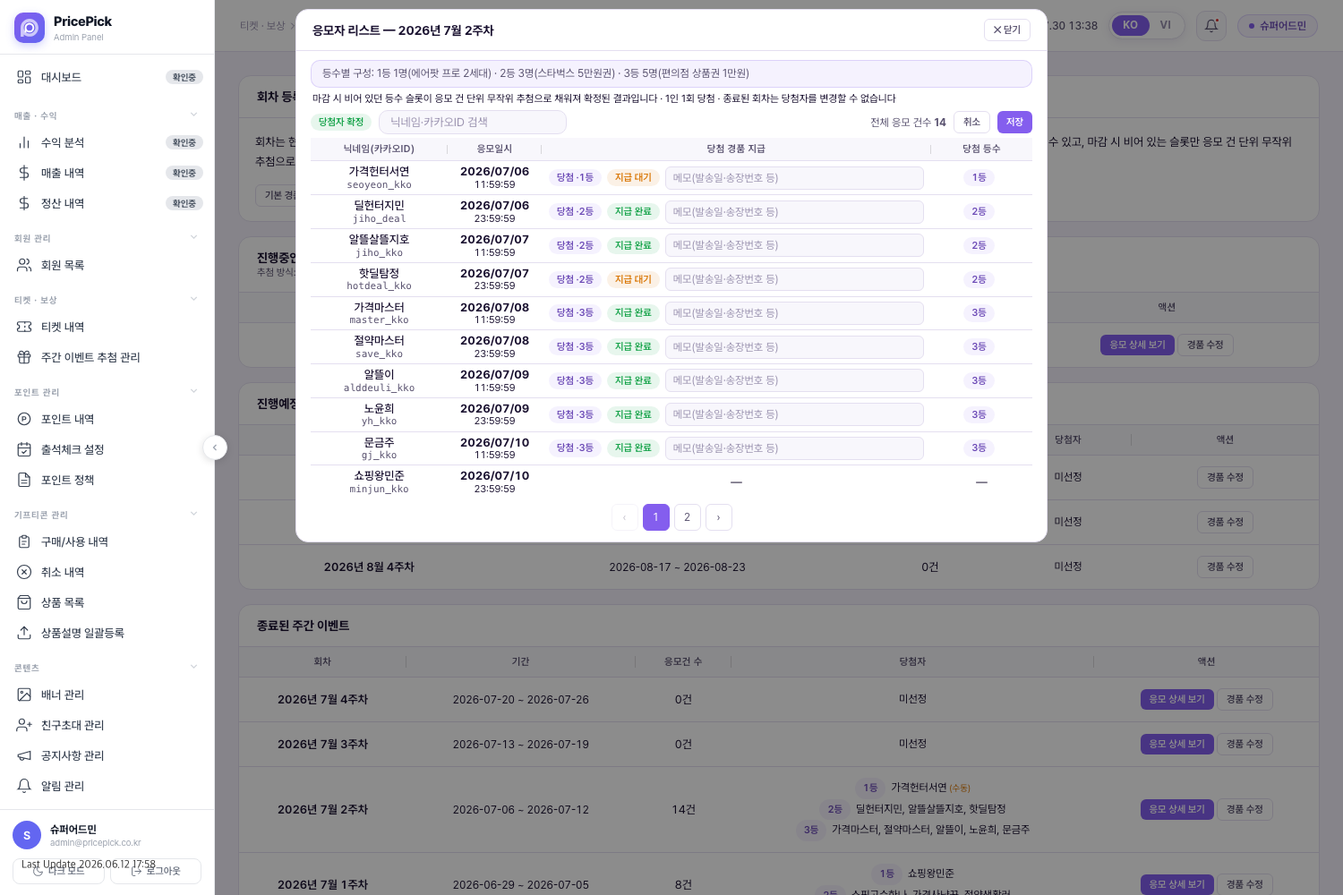
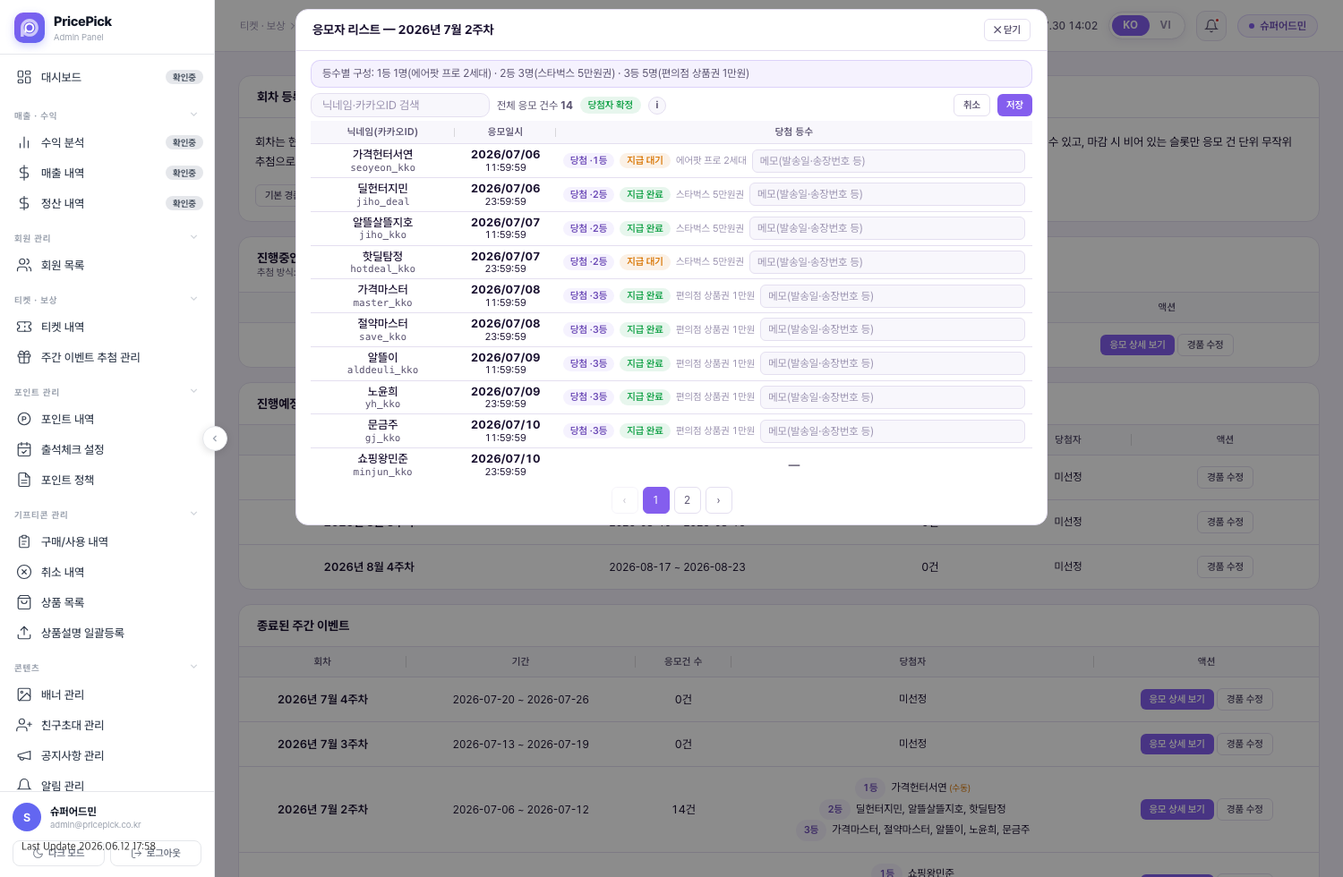
진행 중 회차 지급 표기 제거(비활성화 폐기): CMS 원본 + 설명서·정정 안내문 + 언어 훅 결함 수정
김반장 지시 변경 — 진행 중 회차의 지급 관련 표기를 비활성이 아니라 아예 없앤다.

- cms.html: 진행 중 회차의 "당첨 등수" 칸은 수동 지정 드롭다운 + 경품명만(지급 상태 뱃지·메모칸 제거).
  직전 커밋의 비활성 표시(.pd-payout-off, .pd-memo-input:disabled, 툴팁)는 죽은 코드라 전량 제거하고,
  pdPayoutLocked()는 pdTogglePaid·pdSaveMemo 우회 호출 방지 가드로만 남김. 안내 둘째 줄 문구 정정(KO/VI).
  최종 컬럼 구성 — 진행 중: 닉네임/응모일시/당첨 등수(드롭다운) · 종료: 닉네임/응모일시/당첨 등수(당첨
  뱃지·등수 + 경품명 + 지급 상태 + 메모).
- 설명서: 6절 문단·주의사항 콜아웃·운영 시나리오·캡처 캡션을 "비활성" → "표기 없음"으로 정정. 안내 위치도
  실제 UI대로(툴바 (i) 버튼 호버 툴팁 / 클릭 시 펼침) 서술. 캡처 2종 재촬영 — 진행 중은 안내를 펼친
  상태로 찍어 왜 지급 표기가 없는지 캡처만 봐도 알 수 있게 함.
- 정정 안내문 5절 전면 교체: "비활성 처리" 폐기 명시 + 회차 상태별 컬럼 구성 대조 + 구현 주의(렌더에서
  빼되 가드는 남길 것).

부수 결함 2건 수정(이번 변경으로 드러남):
- pdSyncEntNoteTitle이 2줄 안내를 textContent로 그대로 title에 넣어 문장이 붙어버렸다 → 줄 단위 결합.
- KO/VI 토글 훅이 설치되지 않고 있었다. 훅 IIFE가 파싱 시점에 window.ipSetLang을 감싸려 하는데 i18n
  엔진은 파일 뒤쪽에서 정의되므로 항상 undefined → early return. 언어를 바꿔도 회차명·(i) 툴팁이 이전
  언어로 남던 원인. 엔진 정의 후 설치되도록 지연 + 중복 설치 차단.

검증: 실브라우저 진행 중/종료 각각 확인(지급 표기 0건 vs 뱃지·메모 9건, 드롭다운 10 vs 0, 종료 회차
토글·메모·저장 정상), 언어 토글 시 (i) 툴팁 2줄 VI 전환·KO 복귀 및 회차명 VI 전환 확인.

diff --git a/cms-storyboard/weekly-draws.html b/cms-storyboard/weekly-draws.html
@@ -103,13 +103,13 @@ code{font-family:'SF Mono',Menlo,monospace;font-size:11.5px;background:var(--bg)
 <p><span class="i18n"><span class="ko">마감 시각이 되면 시스템이 <b>비어 있는 슬롯만</b> 채운다. 수동 지정된 사람을 뺀 나머지 응모 행을 전부 무작위로 섞은 뒤, 등수별로 남은 자리만큼 1등부터 순서대로 채우고, <b>같은 사람이 두 번 당첨되는 일은 막는다</b>(이미 당첨된 사람의 다른 응모 행은 건너뜀). 이렇게 확정된 뒤에는 <b>운영자가 당첨자를 바꿀 수 없다</b> — 종료된 회차의 "당첨 등수" 칸은 드롭다운이 아니라 결과 뱃지로만 보인다. 데모 환경에는 서버 크론이 없어서, 실제로는 CMS 화면을 여는 시점에 "마감은 지났는데 아직 추첨 안 된 회차"가 있는지 확인해 그 자리에서 대신 처리한다(운영자 눈에는 차이가 없다).</span><span class="vi">Khi đến giờ đóng đợt, hệ thống chỉ lấp <b>những suất còn trống</b>. Hệ thống xáo trộn ngẫu nhiên toàn bộ dòng dự thưởng còn lại sau khi trừ người đã được chỉ định thủ công, rồi lấp đúng số chỗ còn thiếu của từng hạng theo thứ tự từ hạng 1, đồng thời <b>chặn việc 1 người trúng hai lần</b> (bỏ qua các dòng dự thưởng khác của người đã trúng). Sau khi đã chốt như vậy thì <b>Vận hành viên không thể đổi người trúng</b> — cột "Hạng trúng thưởng" của đợt đã kết thúc chỉ hiện badge kết quả, không phải dropdown. Vì môi trường demo không có cron server, trên thực tế hệ thống kiểm tra vào lúc mở màn CMS xem có đợt nào "đã đóng nhưng chưa rút thăm" không rồi xử lý thay ngay lúc đó (Vận hành viên nhìn thấy không khác gì nhau).</span></span></p>
 <p><span class="i18n"><span class="ko">당첨으로 뽑힌 응모 행에는 <b>"당첨 · N등" 뱃지</b>가 붙고, 이런 행들은 등수 순서로 리스트 맨 위에 모인다. 회차 리스트의 "당첨자" 칸에서는 운영자가 직접 지정한 당첨자 뒤에 <b>"(수동)" 표시</b>가 붙어 자동 추첨분과 구분된다.</span><span class="vi">Dòng dự thưởng được chọn trúng sẽ có <b>badge "Trúng thưởng · Hạng N"</b>, và các dòng này được gom lên đầu danh sách theo thứ tự hạng. Ở cột "Người trúng" của danh sách đợt, người trúng do Vận hành viên trực tiếp chỉ định sẽ có thêm <b>ký hiệu "(thủ công)"</b> để phân biệt với phần rút thăm tự động.</span></span></p>
 <p><span class="i18n"><span class="ko">응모자가 많은 회차를 대비해 리스트 위에 <b>닉네임 검색창</b>이 있고, 리스트는 <b>10건씩 페이지로 나뉜다</b>. 검색은 닉네임과 카카오 아이디를 둘 다 부분 일치로 잡는다(대소문자 구분 없음) — "지민"만 쳐도 "딜헌터지민"이 걸린다. 검색창 오른쪽에는 <b>전체 응모 건수</b>가 항상 떠 있고, 검색 중에는 "검색 결과 N / 전체 응모 건수 M" 형태로 둘 다 보여준다(총계는 티켓 1장 = 1행 기준 그대로다). 정렬 규칙은 검색·페이지와 무관하게 그대로다 — <b>당첨자를 등수 순으로 먼저 세우고 그 뒤에 나머지</b>를 붙인 순서를 정해놓고 그 순서 그대로 10건씩 끊기 때문에, 1페이지 맨 위는 항상 1등이다. 당첨 뱃지·지급 상태 뱃지·메모칸도 검색 결과 안에서 똑같이 눌리고 입력된다. 검색어를 바꾸면 1페이지로 돌아가고, 모달을 닫았다 다시 열면 검색어·페이지가 초기화된다. 10건 이하면 페이지 버튼은 아예 안 나온다.</span><span class="vi">Để chuẩn bị cho các đợt có nhiều người dự thưởng, phía trên danh sách có <b>ô tìm kiếm biệt danh</b>, và danh sách được <b>chia trang 10 dòng mỗi trang</b>. Tìm kiếm khớp một phần cả biệt danh lẫn Kakao ID (không phân biệt hoa thường) — chỉ gõ "지민" cũng ra "딜헌터지민". Bên phải ô tìm kiếm luôn hiện <b>tổng số lượt dự thưởng</b>, khi đang tìm kiếm thì hiện cả hai theo dạng "Kết quả tìm kiếm N / Tổng số lượt dự thưởng M" (tổng số vẫn tính theo chuẩn 1 vé = 1 dòng như cũ). Quy tắc sắp xếp không đổi dù có tìm kiếm hay chia trang — <b>xếp người trúng lên trước theo thứ tự hạng rồi mới nối phần còn lại</b>, sau đó mới cắt 10 dòng mỗi trang theo đúng thứ tự đó, nên đầu trang 1 luôn là hạng 1. Badge trúng thưởng·badge trạng thái gửi quà·ô ghi chú trong kết quả tìm kiếm cũng bấm và nhập được y hệt. Đổi từ khóa thì quay về trang 1, đóng modal rồi mở lại thì từ khóa·trang được đặt lại. Nếu từ 10 dòng trở xuống thì nút chuyển trang không hiện.</span></span></p>
-<div class="shot"><img src="img/weekly-draws-02-entrants-modal.png" alt="응모자 리스트 — 미선정 상태, 다중 응모"><div class="cap"><span class="i18n"><span class="ko">실측 캡처 — <b>진행 중 회차</b>의 응모자 리스트. "당첨 등수"가 드롭다운이고, 1등·2등 슬롯이 수동 지정·저장된 상태(뱃지 "수동 지정 저장됨"). <b>지급 대기 뱃지와 메모칸은 회색 점선으로 비활성</b>이고, 그 이유가 상단 안내 두 번째 줄에 붙어 있다</span><span class="vi">Ảnh chụp thực tế — danh sách người dự thưởng của <b>đợt đang diễn ra</b>. Cột "Hạng trúng thưởng" là dropdown, và suất hạng 1·hạng 2 đang ở trạng thái đã chỉ định thủ công·đã lưu (badge "Đã lưu chỉ định thủ công"). <b>Badge chờ gửi quà và ô ghi chú bị vô hiệu với viền nét đứt màu xám</b>, lý do được ghi ở dòng thứ hai của phần hướng dẫn phía trên</span></span></div></div>
+<div class="shot"><img src="img/weekly-draws-02-entrants-modal.png" alt="응모자 리스트 — 미선정 상태, 다중 응모"><div class="cap"><span class="i18n"><span class="ko">실측 캡처 — <b>진행 중 회차</b>의 응모자 리스트. "당첨 등수"가 드롭다운이고, 1등·2등 슬롯이 수동 지정·저장된 상태(뱃지 "수동 지정 저장됨"). <b>지급 상태 뱃지·메모칸은 아예 없다</b>(지급은 마감 후) — 그 이유는 툴바 ⓘ 버튼을 누르면 펼쳐지는 안내 둘째 줄에 있다</span><span class="vi">Ảnh chụp thực tế — danh sách người dự thưởng của <b>đợt đang diễn ra</b>. Cột "Hạng trúng thưởng" là dropdown, và suất hạng 1·hạng 2 đang ở trạng thái đã chỉ định thủ công·đã lưu (badge "Đã lưu chỉ định thủ công"). <b>Không có badge trạng thái gửi quà·ô ghi chú</b> (gửi quà là sau khi đóng đợt) — lý do nằm ở dòng thứ hai của phần hướng dẫn mở ra khi bấm nút ⓘ trên thanh công cụ</span></span></div></div>
 
 <h2 class="sec"><span class="i18n"><span class="ko">6. 지급 관리</span><span class="vi">6. Quản lý gửi quà</span></span></h2>
 <p><span class="i18n"><span class="ko">당첨자가 확정된 응모 행에는 당첨 뱃지 옆에 <b>지급 상태 뱃지</b>가 나란히 붙는다 — 기본은 "지급 대기"이고, 뱃지를 클릭할 때마다 "지급 완료" ↔ "지급 대기"로 바뀐다. 같은 줄 오른쪽에는 한 줄짜리 자유 메모 칸이 붙어 있어 기프티콘 발송일이나 실물 경품 송장번호 같은 걸 적어둘 수 있다(칸보다 긴 메모는 마우스를 올리면 전체가 뜬다). 메모칸을 뱃지 아래로 펼치지 않고 옆에 붙인 건 <b>한 페이지 10건이 모달 내부 스크롤 없이 다 보이게</b> 하기 위해서다. 지급 상태와 메모는 <b>상단 "저장" 버튼을 눌러야 저장</b>된다 — 뱃지 클릭·메모 입력만으로는 임시 상태이고, 모달을 닫았다 다시 열면 마지막으로 저장된 상태로 돌아간다.</span><span class="vi">Dòng dự thưởng đã chốt người trúng sẽ có <b>badge trạng thái gửi quà</b> đặt cạnh badge trúng thưởng — mặc định "Chờ gửi quà", mỗi lần bấm vào badge sẽ đổi qua lại "Đã gửi quà" ↔ "Chờ gửi quà". Bên phải cùng dòng đó có ô ghi chú tự do một dòng để ghi ngày gửi Gifticon hoặc mã vận đơn quà vật lý (ghi chú dài hơn ô thì rê chuột vào sẽ hiện đầy đủ). Sở dĩ đặt ô ghi chú bên cạnh chứ không trải xuống dưới badge là để <b>10 dòng của một trang hiện hết mà không phải cuộn bên trong modal</b>. Trạng thái gửi quà và ghi chú <b>chỉ lưu khi bấm nút "Lưu"</b> phía trên — chỉ bấm badge/nhập ghi chú thôi vẫn là trạng thái tạm, đóng modal rồi mở lại sẽ trở về trạng thái đã lưu gần nhất.</span></span></p>
-<p><span class="i18n"><span class="ko">단, 지급 관리는 <b>종료된 회차에서만 열린다</b>. 진행 중인 회차에서는 지급 상태 뱃지와 메모칸이 <b>회색 점선으로 비활성</b> 상태로 보이고, 클릭·입력이 되지 않는다 — 아직 마감 전이라 지급이라는 게 성립하지 않기 때문이다. 마우스를 올리면 "회차 종료 후 지급 관리 가능"이라는 툴팁이 뜨고, 리스트 상단 안내에도 같은 내용이 한 줄 붙는다. 진행 중인 회차에서 운영자가 할 수 있는 일은 <b>당첨자 수동 지정까지</b>이고, 지급 관리는 회차가 마감된 뒤에 열린다.</span><span class="vi">Tuy nhiên, quản lý gửi quà <b>chỉ mở ở đợt đã kết thúc</b>. Ở đợt đang diễn ra, badge trạng thái gửi quà và ô ghi chú hiện ở trạng thái <b>vô hiệu với viền nét đứt màu xám</b>, không bấm·nhập được — vì chưa đóng đợt nên việc gửi quà chưa phát sinh. Rê chuột vào sẽ hiện tooltip "Có thể quản lý gửi quà sau khi đợt kết thúc", và phần hướng dẫn ở đầu danh sách cũng có thêm một dòng cùng nội dung. Ở đợt đang diễn ra, việc Vận hành viên làm được <b>chỉ đến mức chỉ định người trúng thủ công</b>; quản lý gửi quà mở ra sau khi đợt đã đóng.</span></span></p>
+<p><span class="i18n"><span class="ko">단, 위 내용은 <b>종료된 회차에만</b> 해당한다. <b>진행 중인 회차에서는 지급 관련 표기가 아예 나오지 않는다</b> — 지급 상태 뱃지도, 메모칸도 없다. 아직 마감 전이라 지급이라는 게 성립하지 않기 때문이다. 그래서 진행 중 회차의 "당첨 등수" 칸에는 <b>수동 지정 드롭다운과 그 등수의 경품명만</b> 들어간다. 왜 안 보이는지는 툴바의 <b>ⓘ 버튼</b>으로 알려준다 — 마우스를 올리면 툴팁으로, 누르면 안내가 펼쳐지며 둘째 줄에 "지급 상태·메모는 아직 지급이 성립하지 않는 구간이라 표시하지 않습니다 — 회차 종료 후 이 리스트에 함께 나타납니다"가 나온다. 진행 중인 회차에서 운영자가 할 수 있는 일은 <b>당첨자 수동 지정까지</b>다.</span><span class="vi">Tuy nhiên, nội dung trên chỉ áp dụng cho <b>đợt đã kết thúc</b>. <b>Ở đợt đang diễn ra, hoàn toàn không hiện phần liên quan đến gửi quà</b> — không có badge trạng thái gửi quà, cũng không có ô ghi chú. Vì chưa đóng đợt nên việc gửi quà chưa phát sinh. Do đó ở đợt đang diễn ra, cột "Hạng trúng thưởng" <b>chỉ có dropdown chỉ định thủ công và tên quà của hạng đó</b>. Lý do không hiện được thông báo qua <b>nút ⓘ</b> trên thanh công cụ — rê chuột vào thì hiện tooltip, bấm vào thì phần hướng dẫn mở ra và dòng thứ hai ghi "Trạng thái gửi quà·ghi chú không được hiển thị vì chưa tới lúc phát sinh việc gửi quà — sẽ xuất hiện trong danh sách này sau khi đợt kết thúc". Ở đợt đang diễn ra, việc Vận hành viên làm được <b>chỉ đến mức chỉ định người trúng thủ công</b>.</span></span></p>
 <p><span class="i18n"><span class="ko">이 화면은 "보냈는지 아닌지"와 메모만 남기는 최소 기능이다. 기프티콘을 실제로 자동 발송하거나, 당첨자의 배송지·연락처 같은 수령 정보를 입력받는 화면은 <b>따로 없다</b> — 수령 정보가 필요하면 1:1 문의를 통해 운영자가 직접 받는다.</span><span class="vi">Màn này chỉ có chức năng tối thiểu để ghi lại "đã gửi hay chưa" và ghi chú. <b>Không có</b> màn tự động gửi Gifticon thật, hay màn nhập thông tin nhận quà (địa chỉ, số điện thoại...) của người trúng — nếu cần thông tin nhận quà thì Vận hành viên nhận trực tiếp qua Hỏi đáp 1:1.</span></span></p>
-<div class="shot"><img src="img/weekly-draws-03-entrants-applied.png" alt="응모자 리스트 — 당첨자 확정 상태, 지급 완료/대기 혼재"><div class="cap"><span class="i18n"><span class="ko">실측 캡처 — <b>종료된 회차</b>의 당첨자 확정 상태. "당첨 등수"가 드롭다운이 아니라 결과 뱃지로만 나온다. <b>여기서는 지급 상태 뱃지·메모칸이 활성</b>이다("지급 완료"·"지급 대기" 혼재) — 진행 중 회차의 비활성 상태와 비교하면 차이가 보인다</span><span class="vi">Ảnh chụp thực tế — trạng thái đã chốt người trúng của <b>đợt đã kết thúc</b>. Cột "Hạng trúng thưởng" chỉ hiện badge kết quả, không phải dropdown. <b>Ở đây badge trạng thái gửi quà·ô ghi chú đang hoạt động</b> (lẫn "Đã gửi quà"·"Chờ gửi quà") — so với trạng thái vô hiệu ở đợt đang diễn ra sẽ thấy rõ khác biệt</span></span></div></div>
+<div class="shot"><img src="img/weekly-draws-03-entrants-applied.png" alt="응모자 리스트 — 당첨자 확정 상태, 지급 완료/대기 혼재"><div class="cap"><span class="i18n"><span class="ko">실측 캡처 — <b>종료된 회차</b>의 당첨자 확정 상태. "당첨 등수"가 드롭다운이 아니라 결과 뱃지로만 나온다. <b>여기서만 지급 상태 뱃지·메모칸이 나온다</b>("지급 완료"·"지급 대기" 혼재) — 지급 표기가 아예 없는 진행 중 회차와 비교하면 차이가 보인다</span><span class="vi">Ảnh chụp thực tế — trạng thái đã chốt người trúng của <b>đợt đã kết thúc</b>. Cột "Hạng trúng thưởng" chỉ hiện badge kết quả, không phải dropdown. <b>Chỉ ở đây mới có badge trạng thái gửi quà·ô ghi chú</b> (lẫn "Đã gửi quà"·"Chờ gửi quà") — so với đợt đang diễn ra vốn không có phần gửi quà sẽ thấy rõ khác biệt</span></span></div></div>
 
 <h2 class="sec"><span class="i18n"><span class="ko">7. 앱 연동 — 당첨 알림 · 지난 회차 당첨자 명단</span><span class="vi">7. Liên kết với app — Thông báo trúng thưởng · Danh sách người trúng đợt trước</span></span></h2>
 <p><span class="i18n"><span class="ko">앱으로 나가는 효과는 <b>회차가 마감돼 당첨자가 확정되는 순간</b>에만 생긴다. 진행 중에 수동으로 지정해 둔 것만으로는 앱에 아무 변화가 없다 — 마감 전까지는 당첨 알림도, 명단 노출도 없다.</span><span class="vi">Các hiệu ứng ra phía app chỉ xảy ra <b>ngay khi đợt đóng và người trúng được chốt</b>. Chỉ chỉ định thủ công trong lúc đợt đang diễn ra thì app không thay đổi gì — trước khi đóng đợt sẽ không có thông báo trúng thưởng, cũng không hiện danh sách.</span></span></p>
@@ -125,7 +125,7 @@ code{font-family:'SF Mono',Menlo,monospace;font-size:11.5px;background:var(--bg)
 <h2 class="sec"><span class="i18n"><span class="ko">8. 운영 시나리오</span><span class="vi">8. Kịch bản vận hành</span></span></h2>
 <table>
   <tr><th style="width:190px"><span class="i18n"><span class="ko">상황</span><span class="vi">Tình huống</span></span></th><th><span class="i18n"><span class="ko">운영자가 하는 일</span><span class="vi">Việc Vận hành viên làm</span></span></th><th><span class="i18n"><span class="ko">결과</span><span class="vi">Kết quả</span></span></th></tr>
-  <tr><td><b><span class="i18n"><span class="ko">특정 회원을 당첨자로 지정</span><span class="vi">Chỉ định một thành viên làm người trúng</span></span></b></td><td><span class="i18n"><span class="ko">진행 중인 회차의 "응모 상세 보기"를 열어 그 회원의 응모 행에서 "당첨 등수" 드롭다운으로 등수를 고르고 "저장"</span><span class="vi">Mở "Xem chi tiết dự thưởng" của đợt đang diễn ra, chọn hạng ở dropdown "Hạng trúng thưởng" tại dòng dự thưởng của thành viên đó rồi bấm "Lưu"</span></span></td><td><span class="i18n"><span class="ko">그 슬롯은 확정되고 남은 슬롯만 마감 시 무작위 추첨으로 채워진다. 마감 전까지 변경·해제 가능하며, 앱에는 마감 전까지 아무것도 노출되지 않음. 이 단계에서 지급 상태·메모는 비활성이라 손댈 수 없음</span><span class="vi">Suất đó được chốt và chỉ các suất còn lại được rút thăm ngẫu nhiên khi đóng đợt. Có thể thay đổi·huỷ cho đến khi đóng đợt, và app không hiện gì cho đến khi đóng đợt. Ở bước này trạng thái gửi quà·ghi chú bị vô hiệu nên không thao tác được</span></span></td></tr>
+  <tr><td><b><span class="i18n"><span class="ko">특정 회원을 당첨자로 지정</span><span class="vi">Chỉ định một thành viên làm người trúng</span></span></b></td><td><span class="i18n"><span class="ko">진행 중인 회차의 "응모 상세 보기"를 열어 그 회원의 응모 행에서 "당첨 등수" 드롭다운으로 등수를 고르고 "저장"</span><span class="vi">Mở "Xem chi tiết dự thưởng" của đợt đang diễn ra, chọn hạng ở dropdown "Hạng trúng thưởng" tại dòng dự thưởng của thành viên đó rồi bấm "Lưu"</span></span></td><td><span class="i18n"><span class="ko">그 슬롯은 확정되고 남은 슬롯만 마감 시 무작위 추첨으로 채워진다. 마감 전까지 변경·해제 가능하며, 앱에는 마감 전까지 아무것도 노출되지 않음. 이 단계에서는 지급 상태·메모가 화면에 없음(마감 후 등장)</span><span class="vi">Suất đó được chốt và chỉ các suất còn lại được rút thăm ngẫu nhiên khi đóng đợt. Có thể thay đổi·huỷ cho đến khi đóng đợt, và app không hiện gì cho đến khi đóng đợt. Ở bước này trạng thái gửi quà·ghi chú không có trên màn hình (xuất hiện sau khi đóng đợt)</span></span></td></tr>
   <tr><td><b><span class="i18n"><span class="ko">이번 주 당첨자 확인</span><span class="vi">Xem người trúng tuần này</span></span></b></td><td><span class="i18n"><span class="ko">마감된 회차의 "응모 상세 보기"를 열어 확정된 결과를 확인만 한다 — 종료 회차에서는 당첨자를 바꿀 수 없다</span><span class="vi">Chỉ mở "Xem chi tiết dự thưởng" của đợt đã đóng để xem kết quả đã chốt — với đợt đã kết thúc thì không đổi được người trúng</span></span></td><td><span class="i18n"><span class="ko">당첨자가 등수 순으로 리스트 맨 위에 표시되고, 회차 리스트의 "당첨자" 칸에도 등수별로 표시됨(수동 지정분에는 "(수동)" 표시)</span><span class="vi">Người trúng hiện ở đầu danh sách theo thứ tự hạng, và cột "Người trúng" ở danh sách đợt cũng hiện theo hạng (phần chỉ định thủ công có ký hiệu "(thủ công)")</span></span></td></tr>
   <tr><td><b><span class="i18n"><span class="ko">특정 회원이 응모했는지 확인</span><span class="vi">Kiểm tra một thành viên có dự thưởng không</span></span></b></td><td><span class="i18n"><span class="ko">"응모 상세 보기"를 연 뒤 리스트 위 검색창에 닉네임이나 카카오 아이디 일부를 입력한다 (문의 답변용으로 쓰는 경우가 많다)</span><span class="vi">Mở "Xem chi tiết dự thưởng" rồi nhập một phần biệt danh hoặc Kakao ID vào ô tìm kiếm phía trên danh sách (thường dùng để trả lời hỏi đáp)</span></span></td><td><span class="i18n"><span class="ko">그 회원의 응모 행만 남는다 — 몇 건 응모했는지(=티켓을 몇 장 썼는지), 당첨됐는지까지 한 번에 보인다</span><span class="vi">Chỉ còn lại các dòng dự thưởng của thành viên đó — thấy ngay đã dự thưởng bao nhiêu lượt (=dùng bao nhiêu vé) và có trúng thưởng hay không</span></span></td></tr>
   <tr><td><b><span class="i18n"><span class="ko">경품 발송 완료 표시</span><span class="vi">Đánh dấu đã gửi quà</span></span></b></td><td><span class="i18n"><span class="ko">해당 당첨자의 지급 상태 뱃지를 눌러 "지급 완료"로, 메모칸에 발송일 등 입력 → "저장"</span><span class="vi">Bấm badge trạng thái gửi quà của người trúng đó sang "Đã gửi quà", nhập ngày gửi v.v. vào ô ghi chú → "Lưu"</span></span></td><td><span class="i18n"><span class="ko">다음에 리스트를 열어도 지급 완료 상태와 메모가 그대로 남아 있음</span><span class="vi">Lần sau mở lại danh sách vẫn giữ nguyên trạng thái đã gửi và ghi chú</span></span></td></tr>
@@ -136,7 +136,7 @@ code{font-family:'SF Mono',Menlo,monospace;font-size:11.5px;background:var(--bg)
 <div class="callout warn"><div class="tt"><span class="i18n"><span class="ko">회차를 수동으로 만들거나 지울 수 없다</span><span class="vi">Không thể tự tạo hoặc xóa đợt thủ công</span></span></div><span class="i18n"><span class="ko">주간 이벤트 특성상 회차가 중간에 비면 안 되기 때문에, 회차 등록·삭제 기능은 아예 없다. 회차는 화면 접속 시 자동으로만 채워진다. 경품 구성만 "경품 수정"으로 고칠 수 있다.</span><span class="vi">Vì đặc thù sự kiện tuần không được để trống đợt giữa chừng, nên hoàn toàn không có chức năng tạo·xóa đợt. Đợt chỉ được lấp đầy tự động khi truy cập màn hình. Chỉ có thể sửa cấu hình quà qua "Chỉnh sửa giải thưởng".</span></span></div>
 <div class="callout warn"><div class="tt"><span class="i18n"><span class="ko">당첨자 수동 지정은 진행 중인 회차에서만 된다</span><span class="vi">Chỉ định người trúng thủ công chỉ được với đợt đang diễn ra</span></span></div><span class="i18n"><span class="ko">진행예정 회차는 응모가 0건이라 "응모 상세 보기" 버튼 자체가 없고, 종료된 회차는 당첨자 구성이 이미 확정돼 드롭다운이 나오지 않는다. 즉 지정·변경·해제가 가능한 구간은 <b>회차 시작 후 마감 전까지</b>뿐이다. 마감 뒤에 잘못된 당첨자를 발견해도 CMS에서 바꿀 수 없고, 재추첨 버튼도 없다 — 마감 후 조작 가능한 부분은 지급 상태·메모뿐이다.</span><span class="vi">Đợt sắp diễn ra không có lượt dự thưởng nào nên không có cả nút "Xem chi tiết dự thưởng"; đợt đã kết thúc thì cơ cấu người trúng đã chốt nên không hiện dropdown. Tức là khoảng thời gian có thể chỉ định·thay đổi·huỷ chỉ là <b>từ khi đợt bắt đầu đến trước khi đóng đợt</b>. Nếu sau khi đóng đợt mới phát hiện người trúng sai thì không đổi được trên CMS, cũng không có nút rút thăm lại — sau khi đóng đợt chỉ thao tác được trạng thái gửi quà·ghi chú.</span></span></div>
 <div class="callout warn"><div class="tt"><span class="i18n"><span class="ko">수동 지정도 "저장"을 눌러야 반영된다</span><span class="vi">Chỉ định thủ công cũng phải bấm "Lưu" mới có hiệu lực</span></span></div><span class="i18n"><span class="ko">드롭다운에서 등수를 고른 것만으로는 임시 상태다(뱃지가 "저장 전 (임시 지정)"). 저장하지 않고 모달을 닫으면 지정이 사라지고, 그 슬롯은 비어 있는 것으로 취급돼 마감 시 무작위 추첨으로 채워진다.</span><span class="vi">Chỉ chọn hạng ở dropdown thôi vẫn là trạng thái tạm (badge hiện "Trước khi lưu (chỉ định tạm)"). Nếu đóng modal mà không lưu thì chỉ định biến mất, và suất đó bị coi là còn trống nên sẽ được lấp bằng rút thăm ngẫu nhiên khi đóng đợt.</span></span></div>
-<div class="callout warn"><div class="tt"><span class="i18n"><span class="ko">진행 중인 회차에서는 지급 관리가 비활성이다</span><span class="vi">Ở đợt đang diễn ra, quản lý gửi quà bị vô hiệu</span></span></div><span class="i18n"><span class="ko">지급 상태 뱃지·메모칸은 진행 중인 회차에서 회색 점선으로 비활성 처리돼 클릭·입력이 안 된다. 마감 전에는 지급이 성립하지 않으므로 의도된 동작이다 — 툴팁("회차 종료 후 지급 관리 가능")과 리스트 상단 안내 한 줄로 이유를 알려준다. 지급 기록이 필요하면 회차가 마감된 뒤 종료 구역에서 같은 화면을 열면 된다.</span><span class="vi">Badge trạng thái gửi quà·ô ghi chú ở đợt đang diễn ra bị vô hiệu với viền nét đứt màu xám nên không bấm·nhập được. Trước khi đóng đợt thì việc gửi quà chưa phát sinh, nên đây là hành vi có chủ đích — lý do được thông báo qua tooltip ("Có thể quản lý gửi quà sau khi đợt kết thúc") và một dòng hướng dẫn ở đầu danh sách. Nếu cần ghi lại việc gửi quà thì mở đúng màn đó ở khu vực đã kết thúc sau khi đợt đã đóng.</span></span></div>
+<div class="callout warn"><div class="tt"><span class="i18n"><span class="ko">진행 중인 회차에는 지급 관련 표기가 없다</span><span class="vi">Ở đợt đang diễn ra không có phần liên quan đến gửi quà</span></span></div><span class="i18n"><span class="ko">지급 상태 뱃지·메모칸은 진행 중인 회차에서 <b>렌더 자체가 안 된다</b>(비활성이 아니라 아예 없음). 마감 전에는 지급이 성립하지 않으므로 의도된 동작이며, 툴바 ⓘ 버튼의 안내 둘째 줄로 이유를 알려준다. 지급 기록이 필요하면 회차가 마감된 뒤 종료 구역에서 같은 화면을 열면 된다 — 그때 같은 "당첨 등수" 칸에 지급 상태와 메모가 함께 나타난다.</span><span class="vi">Badge trạng thái gửi quà·ô ghi chú ở đợt đang diễn ra <b>không được render</b> (không phải bị vô hiệu mà là hoàn toàn không có). Trước khi đóng đợt thì việc gửi quà chưa phát sinh, nên đây là hành vi có chủ đích, và lý do được ghi ở dòng thứ hai trong phần hướng dẫn của nút ⓘ trên thanh công cụ. Nếu cần ghi lại việc gửi quà thì mở đúng màn đó ở khu vực đã kết thúc sau khi đợt đã đóng — lúc đó trạng thái gửi quà và ghi chú sẽ xuất hiện cùng trong cột "Hạng trúng thưởng".</span></span></div>
 <div class="callout warn"><div class="tt"><span class="i18n"><span class="ko">지급 상태·메모는 "저장"을 눌러야 저장된다</span><span class="vi">Trạng thái gửi quà·ghi chú chỉ lưu khi bấm "Lưu"</span></span></div><span class="i18n"><span class="ko">지급 상태 뱃지를 누르거나 메모를 입력한 것만으로는 저장되지 않는다. 모달을 닫거나(취소) 다시 열면 마지막으로 저장된 상태로 되돌아간다 — 입력 후 반드시 "저장"까지 눌러야 한다.</span><span class="vi">Chỉ bấm badge trạng thái gửi quà hoặc nhập ghi chú thì chưa được lưu. Nếu đóng modal (Hủy) hoặc mở lại thì trở về trạng thái đã lưu gần nhất — sau khi nhập phải bấm "Lưu" mới xong.</span></span></div>
 <div class="callout"><div class="tt"><span class="i18n"><span class="ko">회차명·기간은 이 화면에서 못 바꾼다</span><span class="vi">Không đổi được tên đợt·thời gian ở màn này</span></span></div><span class="i18n"><span class="ko">회차명(예: "2026년 7월 4주차")과 시작·마감일은 자동 등록 규칙(월요일 시작 ~ 일요일 23:59:59 마감)으로 고정돼 있다. "경품 수정" 모달에는 등수별 경품 항목만 있고 이름·기간을 바꾸는 입력칸은 없다.</span><span class="vi">Tên đợt (VD: "Tuần 4 tháng 7 năm 2026") và ngày bắt đầu·đóng đã cố định theo quy tắc đăng ký tự động (bắt đầu Thứ Hai ~ đóng 23:59:59 Chủ Nhật). Modal "Chỉnh sửa giải thưởng" chỉ có mục quà theo hạng, không có ô để đổi tên·thời gian.</span></span></div>
 <div class="callout"><div class="tt"><span class="i18n"><span class="ko">수령 정보 입력·경품 자동 발송은 이 화면 밖 일</span><span class="vi">Nhập thông tin nhận quà·tự động gửi quà nằm ngoài màn này</span></span></div><span class="i18n"><span class="ko">지급 상태·메모는 운영자가 손으로 남기는 기록일 뿐, 기프티콘을 실제로 자동 발송하거나 당첨자의 주소·연락처를 받는 기능은 없다. 그런 정보가 필요하면 1:1 문의로 별도 안내해 받는다.</span><span class="vi">Trạng thái gửi quà·ghi chú chỉ là bản ghi Vận hành viên tự nhập tay, không có chức năng tự động gửi Gifticon thật hay nhận địa chỉ·số điện thoại người trúng. Nếu cần thông tin đó thì hướng dẫn nhận riêng qua Hỏi đáp 1:1.</span></span></div>

diff --git a/devqa/cms-draw-manual-20260730.html b/devqa/cms-draw-manual-20260730.html
@@ -87,13 +87,13 @@ Sau khi lưu, nếu vẫn chưa đóng đợt thì có thể đổi sang dòng d
 
 <b>앱 노출 시점</b> — 당첨 알림(PRIZE_WIN)과 "지난 회차 당첨자 명단"은 <b>마감 후에만</b> 나갑니다. 마감 전에 수동 지정을 저장해도 앱에는 아무 변화가 없습니다. 즉 <code>prize_winners</code> 기록은 마감 시점에 최종 당첨자(수동 지정분 포함) 전체를 한 번에 씁니다 — 수동 지정 저장 시에는 쓰지 않습니다. 여기가 구현에서 가장 틀리기 쉬운 지점입니다.
 
-<b>지급 관리</b> — 지급 상태 뱃지·메모, "저장" 눌러야 반영, 수령 정보는 1:1 문의로 받는 것 모두 그대로입니다. 단, <b>진행 중인 회차에서는 지급 관리가 비활성</b>입니다(아래 5번 참고).</span><span class="vi"><b>Quy tắc rút thăm tự động</b> — ngẫu nhiên theo đơn vị lượt dự thưởng (1 vé = 1 dòng), lấp theo thứ tự từ hạng 1 cho đến đủ số lượng từng hạng, mỗi người chỉ trúng 1 lần, không hoàn lại. Việc dùng càng nhiều vé thì xác suất càng cao cũng giữ nguyên.
+<b>지급 관리</b> — 지급 상태 뱃지·메모, "저장" 눌러야 반영, 수령 정보는 1:1 문의로 받는 것 모두 그대로입니다. 단, <b>진행 중인 회차에서는 지급 관련 표기가 아예 없습니다</b>(아래 5번 참고).</span><span class="vi"><b>Quy tắc rút thăm tự động</b> — ngẫu nhiên theo đơn vị lượt dự thưởng (1 vé = 1 dòng), lấp theo thứ tự từ hạng 1 cho đến đủ số lượng từng hạng, mỗi người chỉ trúng 1 lần, không hoàn lại. Việc dùng càng nhiều vé thì xác suất càng cao cũng giữ nguyên.
 
 <b>Đăng ký đợt tự động</b> — tạo rolling 4 tuần tính từ thời điểm truy cập, bắt đầu 0h Thứ Hai ~ đóng 23:59:59 Chủ Nhật, tên đợt tự động đặt theo ngày đóng. Không có đăng ký·xóa thủ công.
 
 <b>Thời điểm hiển thị trên app</b> — thông báo trúng thưởng (PRIZE_WIN) và "danh sách người trúng đợt trước" chỉ ra <b>sau khi đóng đợt</b>. Dù đã lưu chỉ định thủ công trước khi đóng đợt thì app vẫn không thay đổi gì. Tức là bản ghi <code>prize_winners</code> được viết một lần tại thời điểm đóng đợt cho toàn bộ người trúng cuối cùng (bao gồm phần chỉ định thủ công) — không viết lúc lưu chỉ định thủ công. Đây là điểm dễ làm sai nhất khi triển khai.
 
-<b>Quản lý gửi quà</b> — badge trạng thái gửi quà·ghi chú, phải bấm "Lưu" mới có hiệu lực, thông tin nhận quà nhận qua Hỏi đáp 1:1 — tất cả giữ nguyên. Tuy nhiên, <b>ở đợt đang diễn ra thì quản lý gửi quà bị vô hiệu</b> (xem mục 5 bên dưới).</span></span></div></div></div>
+<b>Quản lý gửi quà</b> — badge trạng thái gửi quà·ghi chú, phải bấm "Lưu" mới có hiệu lực, thông tin nhận quà nhận qua Hỏi đáp 1:1 — tất cả giữ nguyên. Tuy nhiên, <b>ở đợt đang diễn ra hoàn toàn không có phần liên quan đến gửi quà</b> (xem mục 5 bên dưới).</span></span></div></div></div>
 
 <h2 class="grp"><span class="i18n"><span class="ko">3. 데이터 · 화면 처리</span><span class="vi">3. Xử lý dữ liệu · màn hình</span></span></h2>
 
@@ -133,26 +133,26 @@ VI: Người trúng thưởng được chọn theo một số tiêu chí vận h
 
 Đã đổi <b>"Tự động công bố người trúng" → "Công bố người trúng"</b> ở thẻ hero (chữ "tự động" gây hiểu nhầm rằng cả cách chọn cũng tự động). Bản thân việc chỉ định thủ công không hiển thị trên app.</span></span></div></div></div>
 
-<h2 class="grp"><span class="i18n"><span class="ko">5. 추가 확정 — 진행 중 회차는 지급 관리 비활성</span><span class="vi">5. Chốt bổ sung — Đợt đang diễn ra thì quản lý gửi quà bị vô hiệu</span></span></h2>
+<h2 class="grp"><span class="i18n"><span class="ko">5. 추가 확정 — 진행 중 회차는 지급 컬럼 제거</span><span class="vi">5. Chốt bổ sung — Đợt đang diễn ra thì bỏ phần gửi quà</span></span></h2>
 
-<div class="qa"><div class="qrow"><span class="qno">추가</span><div class="qtxt"><span class="i18n"><span class="ko">진행 중인 회차에서 지급 상태 뱃지와 메모칸을 비활성 처리 (김반장 추가 확정 2026-07-30)</span><span class="vi">Vô hiệu badge trạng thái gửi quà và ô ghi chú ở đợt đang diễn ra (anh chốt bổ sung 30/07/2026)</span></span></div><span class="bd ok"><span class="i18n"><span class="ko">확정</span><span class="vi">Đã chốt</span></span></span></div>
-<div class="arow"><span class="alabel"><span class="i18n"><span class="ko">스펙</span><span class="vi">Spec</span></span></span><div class="atxt"><span class="i18n"><span class="ko">회차 상태에 따라 지급 관리가 갈립니다.
+<div class="qa"><div class="qrow"><span class="qno">추가</span><div class="qtxt"><span class="i18n"><span class="ko">진행 중인 회차에서는 지급 상태 뱃지·메모칸을 렌더하지 않는다 (김반장 추가 확정 2026-07-30, 앞서 전달한 "비활성 처리"를 대체)</span><span class="vi">Ở đợt đang diễn ra không render badge trạng thái gửi quà·ô ghi chú (anh chốt bổ sung 30/07/2026, thay cho phương án "vô hiệu" đã gửi trước đó)</span></span></div><span class="bd ok"><span class="i18n"><span class="ko">확정</span><span class="vi">Đã chốt</span></span></span></div>
+<div class="arow"><span class="alabel"><span class="i18n"><span class="ko">스펙</span><span class="vi">Spec</span></span></span><div class="atxt"><span class="i18n"><span class="ko">회차 상태에 따라 응모자 리스트의 "당첨 등수" 컬럼 내용이 갈립니다.
 
-<b>진행 중인 회차</b> — 지급 상태 뱃지("지급 대기"/"지급 완료")와 메모칸을 <b>비활성</b>으로 렌더합니다. 뱃지에는 클릭 핸들러를 아예 붙이지 않고, 메모 input에는 <code>disabled</code>를 걸었습니다. 회색 + 점선 테두리로 비활성임이 보이게 했고, 왜 못 쓰는지 알 수 있도록 <b>두 곳에서 안내</b>합니다 — 뱃지·메모칸 <code>title</code> 툴팁("회차 종료 후 지급 관리 가능")과 리스트 상단 안내 두 번째 줄("지급 상태·메모는 아직 지급이 성립하지 않는 구간이라 비활성 상태입니다 — 회차 종료 후 지급 관리 가능", 앰버색).
+<b>진행 중인 회차</b> — 지급 관련 표기를 <b>렌더하지 않습니다</b>. 지급 상태 뱃지도, 메모칸도 없습니다. 화면 구성은 <b>닉네임(카카오ID) / 응모일시 / 당첨 등수(수동 지정 드롭다운 + 그 등수의 경품명)</b>가 전부입니다. 왜 없는지는 툴바 ⓘ 버튼의 안내(호버 시 툴팁, 클릭 시 펼침) 둘째 줄로 알립니다 — "지급 상태·메모는 아직 지급이 성립하지 않는 구간이라 표시하지 않습니다 — 회차 종료 후 이 리스트에 함께 나타납니다".
 
-<b>종료된 회차</b> — 지금까지와 동일하게 정상 동작합니다(뱃지 클릭 토글, 메모 입력, "저장"으로 커밋).
+<b>종료된 회차</b> — 같은 "당첨 등수" 컬럼에 <b>당첨 뱃지·등수 + 경품명 + 지급 상태 뱃지 + 메모칸</b>이 한 줄로 들어갑니다. 지급 상태 토글·메모 입력·"저장" 커밋 모두 정상 동작합니다.
 
 <b>이유</b> — 마감 전에는 지급이라는 게 성립하지 않습니다. 진행 중 회차에서 운영자가 할 수 있는 일은 <b>당첨자 수동 지정까지</b>입니다.
 
-<b>구현 주의</b> — 화면에서 핸들러를 떼는 것만으로 끝내지 말고 <code>pdTogglePaid</code>·<code>pdSaveMemo</code> 진입부에도 같은 조건으로 가드를 두세요. 저희 구현은 <code>pdPayoutLocked()</code>(= 현재 회차 phase가 active인지) 한 함수로 렌더·가드를 같이 판정합니다. 토글을 우회 호출하면 토스트("회차 종료 후 지급 관리 가능")만 뜨고 상태는 바뀌지 않습니다.</span><span class="vi">Quản lý gửi quà khác nhau theo trạng thái của đợt.
+<b>구현 주의</b> — 앞서 전달한 "회색 점선 비활성 + 툴팁" 방식은 <b>폐기</b>합니다. 비활성이 아니라 아예 렌더하지 않는 쪽으로 확정됐습니다. 다만 화면에서 빼는 것만으로 끝내지 말고 <code>pdTogglePaid</code>·<code>pdSaveMemo</code> 진입부에는 안전장치 가드를 남겨두세요(콘솔·구버전 DOM 우회 대비). 저희 구현은 <code>pdPayoutLocked()</code>(= 현재 회차 phase가 active인지)를 그 가드로만 씁니다.</span><span class="vi">Nội dung cột "Hạng trúng thưởng" trong danh sách người dự thưởng khác nhau theo trạng thái của đợt.
 
-<b>Đợt đang diễn ra</b> — render badge trạng thái gửi quà ("Chờ gửi quà"/"Đã gửi quà") và ô ghi chú ở trạng thái <b>vô hiệu</b>. Badge không gắn handler click, ô ghi chú đặt <code>disabled</code>. Dùng màu xám + viền nét đứt để thấy rõ là vô hiệu, và <b>thông báo ở hai nơi</b> để biết lý do — tooltip <code>title</code> trên badge·ô ghi chú ("Có thể quản lý gửi quà sau khi đợt kết thúc") và dòng thứ hai của phần hướng dẫn phía trên danh sách ("Trạng thái gửi quà·ghi chú đang bị vô hiệu vì chưa tới lúc phát sinh việc gửi quà — có thể quản lý gửi quà sau khi đợt kết thúc", màu hổ phách).
+<b>Đợt đang diễn ra</b> — <b>không render</b> phần liên quan đến gửi quà. Không có badge trạng thái gửi quà, cũng không có ô ghi chú. Cấu trúc màn chỉ gồm <b>Biệt danh (Kakao ID) / Thời điểm dự thưởng / Hạng trúng thưởng (dropdown chỉ định thủ công + tên quà của hạng đó)</b>. Lý do không có được thông báo ở dòng thứ hai trong phần hướng dẫn của nút ⓘ trên thanh công cụ (hover ra tooltip, bấm thì mở ra) — "Trạng thái gửi quà·ghi chú không được hiển thị vì chưa tới lúc phát sinh việc gửi quà — sẽ xuất hiện trong danh sách này sau khi đợt kết thúc".
 
-<b>Đợt đã kết thúc</b> — hoạt động bình thường như trước (bấm badge để đổi, nhập ghi chú, commit bằng "Lưu").
+<b>Đợt đã kết thúc</b> — cùng cột "Hạng trúng thưởng" chứa <b>badge trúng thưởng·hạng + tên quà + badge trạng thái gửi quà + ô ghi chú</b> trên một dòng. Đổi trạng thái gửi quà·nhập ghi chú·commit bằng "Lưu" đều hoạt động bình thường.
 
 <b>Lý do</b> — trước khi đóng đợt thì việc gửi quà chưa phát sinh. Ở đợt đang diễn ra, việc Vận hành viên làm được <b>chỉ đến mức chỉ định người trúng thủ công</b>.
 
-<b>Lưu ý khi triển khai</b> — đừng chỉ bỏ handler ở phía màn hình; hãy đặt guard cùng điều kiện ở đầu <code>pdTogglePaid</code>·<code>pdSaveMemo</code>. Bên mình dùng một hàm <code>pdPayoutLocked()</code> (= phase của đợt hiện tại có phải active) để quyết định cả render lẫn guard. Nếu gọi vòng qua hàm toggle thì chỉ hiện toast ("Có thể quản lý gửi quà sau khi đợt kết thúc") và trạng thái không đổi.</span></span></div></div></div>
+<b>Lưu ý khi triển khai</b> — phương án "vô hiệu bằng viền nét đứt xám + tooltip" đã gửi trước đó nay <b>bị bãi bỏ</b>. Đã chốt là không render thay vì vô hiệu. Tuy vậy đừng chỉ bỏ ở phía màn hình — hãy để lại guard an toàn ở đầu <code>pdTogglePaid</code>·<code>pdSaveMemo</code> (phòng gọi vòng qua console·DOM bản cũ). Bên mình dùng <code>pdPayoutLocked()</code> (= phase của đợt hiện tại có phải active) chỉ cho guard đó.</span></span></div></div></div>
 
 <h2 class="grp"><span class="i18n"><span class="ko">6. 반영 위치</span><span class="vi">6. Nơi đã phản ánh</span></span></h2>
 
@@ -160,13 +160,13 @@ VI: Người trúng thưởng được chọn theo một số tiêu chí vận h
 · <b>CMS 원본</b> cms.html — 동일 이식
 · <b>앱 데모</b> pricepick-demo/app · <b>인터랙티브 정본</b> interactive.html — "추첨 방식" 안내 신규 + 히어로 문구 정정 (KO/VI)
 · <b>마스터 정책서</b> policyspec.html — 10번 탭 "추첨·경품"의 당첨자 선정·당첨 확률·운영 항목 갱신 + 확정 재확인 탭에 정정 카드 신설
-· <b>CMS 설명서</b> cms-storyboard/weekly-draws.html — 1·3·5·6·7·8·9번 절 갱신(6번에 지급 관리 비활성 규칙 추가), 캡처 재촬영(진행중 회차 드롭다운·지급 비활성 / 종료 회차 결과 뱃지·지급 활성)
+· <b>CMS 설명서</b> cms-storyboard/weekly-draws.html — 1·3·5·6·7·8·9번 절 갱신(6번에 지급 표기 제거 규칙 추가), 캡처 재촬영(진행중 회차 = 드롭다운·경품명만 / 종료 회차 = 당첨 뱃지·경품명·지급 상태·메모)
 
 <b>남은 확인 1건</b> — 약관 제10조(추첨 및 경품)는 "당첨자 발표 및 경품 지급 방법은 각 회차별로 고지합니다"로 되어 있어 새 스펙과 충돌하지 않습니다. 다만 앱에 "일부 운영 기준에 따라 선정"을 고지하는 만큼, 약관에도 선정 기준 관련 한 문장을 넣을지는 김반장 판단이 필요합니다.</span><span class="vi">· <b>CMS demo</b> pricepick-demo/cms — phục hồi dropdown ở danh sách người dự thưởng, khi đóng đợt chỉ rút thăm suất còn trống, ghi prize_winners một lần khi đóng đợt
 · <b>CMS gốc</b> cms.html — port y hệt
 · <b>App demo</b> pricepick-demo/app · <b>Interactive bản chính</b> interactive.html — thêm mới mục "Phương thức rút thăm" + đính chính nội dung thẻ hero (KO/VI)
 · <b>Tài liệu chính sách gốc</b> policyspec.html — cập nhật các mục chọn người trúng·xác suất trúng·vận hành ở tab 10 "Rút thăm·Quà tặng" + thêm thẻ đính chính ở tab xác nhận lại
-· <b>Tài liệu CMS</b> cms-storyboard/weekly-draws.html — cập nhật mục 1·3·5·6·7·8·9 (mục 6 thêm quy tắc vô hiệu quản lý gửi quà), chụp lại ảnh (đợt đang diễn ra: dropdown·gửi quà vô hiệu / đợt đã kết thúc: badge kết quả·gửi quà hoạt động)
+· <b>Tài liệu CMS</b> cms-storyboard/weekly-draws.html — cập nhật mục 1·3·5·6·7·8·9 (mục 6 thêm quy tắc bỏ phần gửi quà), chụp lại ảnh (đợt đang diễn ra: chỉ dropdown·tên quà / đợt đã kết thúc: badge trúng thưởng·tên quà·trạng thái gửi quà·ghi chú)
 
 <b>1 việc còn cần xác nhận</b> — Điều 10 của Điều khoản (Rút thăm và quà tặng) ghi "Phương pháp công bố người trúng và gửi quà sẽ được thông báo theo từng đợt" nên không xung đột với spec mới. Tuy nhiên vì app có thông báo "được chọn theo một số tiêu chí vận hành", việc có thêm một câu về tiêu chí chọn vào Điều khoản hay không cần anh quyết định.</span></span></div></div>
 

diff --git a/cms.html b/cms.html
@@ -508,11 +508,6 @@ body.dark .member-type-apple::before{background:#E5E7EB;}
   color:var(--text);font-family:var(--font);outline:none;text-align:left;transition:border-color .15s;}
 .pd-memo-input:focus{border-color:var(--main);}
 .pd-memo-input::placeholder{color:var(--text-3);}
-/* 진행 중인 회차: 아직 지급이 성립하지 않으므로 지급 상태 뱃지·메모칸을 비활성 표시 */
-.pd-memo-input:disabled{background:var(--surface-3,var(--surface-2));color:var(--text-3);
-  border-style:dashed;opacity:.6;cursor:not-allowed;}
-.badge.pd-payout-off{background:var(--surface-2);color:var(--text-3);border:1px dashed var(--border);
-  opacity:.75;cursor:not-allowed;}
 /* 표 안 뱃지는 한 톤 작게 — 등수 옆 경품명이 들어가도 행 높이가 안 커지게 */
 #pd-ent-table .badge{padding:2px 8px;}
 #pd-ent-table .badge-purple{margin-right:0;}
@@ -4325,7 +4320,8 @@ function pdConfirmedWinnerFor(uid) {
   return pdConfirmedWinners.find(function(w){ return w.user_id === uid; });
 }
 /* 지급 관리(지급 상태 뱃지 토글·메모 입력) 잠금 여부 — 진행 중인 회차는 마감 전이라 지급이 성립하지 않는다.
-   진행 중 회차에서 운영자가 할 수 있는 일은 당첨자 수동 지정까지이고, 지급 관리는 회차 종료 후에 열린다. */
+   진행 중 회차에서는 지급 표기 자체를 렌더하지 않으므로 화면에서 호출될 일은 없고, 콘솔·구버전 DOM 등으로
+   우회 호출되는 경우를 막는 안전장치로만 남겨둔다(운영자가 할 수 있는 일은 당첨자 수동 지정까지). */
 function pdPayoutLocked() {
   return pdCurrentRoundPhase === 'active';
 }
@@ -4337,10 +4333,8 @@ function pdWinnerTagHtml(uid, r) {
   if (w) {
     var paid = !!w.paid;
     var payoutLabel = paid ? '지급 완료' : '지급 대기';
-    /* 진행 중인 회차는 아직 지급이 성립하지 않으므로 토글 불가 — 클릭 핸들러를 아예 붙이지 않고 비활성 표시 */
-    html += pdPayoutLocked()
-      ? '<span class="badge pd-payout-off" title="회차 종료 후 지급 관리 가능">' + payoutLabel + '</span>'
-      : '<span class="badge ' + (paid ? 'badge-green' : 'badge-amber') + '" style="cursor:pointer" onclick="pdTogglePaid(\'' + uid + '\')">' + payoutLabel + '</span>';
+    /* 지급 상태 뱃지는 종료된 회차에서만 렌더된다(진행 중 회차는 지급 표기 자체가 없음) */
+    html += '<span class="badge ' + (paid ? 'badge-green' : 'badge-amber') + '" style="cursor:pointer" onclick="pdTogglePaid(\'' + uid + '\')">' + payoutLabel + '</span>';
   }
   return html;
 }
@@ -4351,10 +4345,6 @@ function pdMemoInputHtml(uid) {
   var w = pdConfirmedWinnerFor(uid);
   if (!w) return '';
   var v = ppEsc(w.memo || '');
-  /* 진행 중인 회차는 지급 자체가 아직 없으므로 메모칸도 입력 불가(비활성) — 이유는 툴팁으로 알린다 */
-  if (pdPayoutLocked()) {
-    return '<input class="pd-memo-input" placeholder="메모(발송일·송장번호 등)" title="회차 종료 후 지급 관리 가능" value="' + v + '" disabled>';
-  }
   return '<input class="pd-memo-input" placeholder="메모(발송일·송장번호 등)" title="' + v + '" value="' + v + '" onchange="pdSaveMemo(\'' + uid + '\', this.value)">';
 }
 /* 운영자가 직접 지정한 당첨자는 "(수동)" 표시를 붙여 자동 추첨분과 구분한다 */
@@ -4627,10 +4617,11 @@ function pdRenderEntrantRows() {
        진행 중 회차는 등수 자리에 수동 지정 드롭다운이 들어간다. */
     var rankCell;
     if (isActive) {
+      /* 진행 중 회차는 지급 관련 표기(지급 상태·메모)를 아예 넣지 않는다 — 마감 전이라 지급이 성립하지 않음.
+         등수 드롭다운과, 그 등수에 걸린 경품명만 보여준다. */
       rankCell = '<div class="pd-pay-line">'
         + '<select class="form-select pd-rank-select" onchange="pdAssignRank(this,\'' + e._id + '\',\'' + e.user_id + '\')">' + pdRankOptionsHtml(rank) + '</select>'
         + pdPrizeNameHtml(rank)
-        + (rank ? pdMemoInputHtml(e.user_id) : '')
         + '</div>';
     } else {
       rankCell = rank
@@ -4697,16 +4688,21 @@ function pdCollapseEntNote() {
 function pdSyncEntNoteTitle() {
   var el = document.getElementById('pd-ent-note');
   var btn = document.getElementById('pd-ent-note-btn');
-  if (el && btn) btn.title = el.textContent || '';
+  if (!el || !btn) return;
+  /* 안내가 여러 줄(div)로 들어올 수 있어 textContent를 그대로 쓰면 문장이 붙어버린다 — 줄 단위로 끊어서 잇는다 */
+  var lines = el.children.length
+    ? Array.prototype.map.call(el.children, function(c){ return (c.textContent || '').trim(); }).filter(Boolean)
+    : [(el.textContent || '').trim()];
+  btn.title = lines.join('\n');
 }
 /* 모달 안내문구·저장 버튼은 회차 상태에 따라 달라진다(문구는 KO2VI 사전 키와 정확히 일치시켜 언어 토글 시 자동 번역) */
 function pdRefreshEntrantsNote() {
   var el = document.getElementById('pd-ent-note');
   if (!el) return;
-  /* 진행 중 회차는 안내 2줄 — 위: 수동 지정 규칙, 아래: 지급 관리가 잠긴 이유(비활성 표시와 짝) */
+  /* 진행 중 회차는 안내 2줄 — 위: 수동 지정 규칙, 아래: 지급 관리가 이 리스트에 없는 이유 */
   if (pdCurrentRoundPhase === 'active') {
     el.innerHTML = '<div>진행 중인 회차입니다 · 등수 슬롯별로 당첨자를 직접 지정할 수 있고, 마감(일요일 23:59:59) 시 비어 있는 슬롯만 응모 건 단위 무작위 추첨으로 채워집니다 · 1인 1회 당첨 · 마감 전까지 변경·해제 가능</div>'
-      + '<div style="color:var(--amber);margin-top:3px">지급 상태·메모는 아직 지급이 성립하지 않는 구간이라 비활성 상태입니다 — 회차 종료 후 지급 관리 가능</div>';
+      + '<div style="color:var(--amber);margin-top:3px">지급 상태·메모는 아직 지급이 성립하지 않는 구간이라 표시하지 않습니다 — 회차 종료 후 이 리스트에 함께 나타납니다</div>';
     pdSyncEntNoteTitle();
     return;
   }
@@ -4846,10 +4842,16 @@ window.pdSaveMemo = function(uid, value) {
 
 /* KO/VI 토글 시 회차명(pdWeekLabel)·모달 제목처럼 사전 매칭이 안 되는 동적 텍스트를 현재 언어로 재계산.
    경품 수정 폼 등 진행 중인 입력은 건드리지 않아 데이터 유실 없음. */
+/* 주의: i18n 엔진(window.ipSetLang)은 이 파일 뒤쪽 스크립트 블록에서 정의된다. 파싱 시점에 바로 감싸려 하면
+   아직 undefined라 훅이 설치되지 않고 조용히 사라진다(그래서 언어 토글이 회차명·툴팁에 반영되지 않았다).
+   엔진 정의가 끝난 뒤 설치되도록 지연시키고, 중복 설치는 플래그로 막는다. */
 (function() {
-  var _origIpSetLang = window.ipSetLang;
-  if (typeof _origIpSetLang !== 'function') return;
-  window.ipSetLang = function(lang) {
+  function installDrawLangHook() {
+    if (window.__ppDrawLangHooked) return;
+    var _origIpSetLang = window.ipSetLang;
+    if (typeof _origIpSetLang !== 'function') return;
+    window.__ppDrawLangHooked = true;
+    window.ipSetLang = function(lang) {
     _origIpSetLang(lang);
     var sec = document.getElementById('sec-weekly-draws');
     if (sec && sec.classList.contains('active') && typeof loadDraws === 'function') loadDraws();
@@ -4858,7 +4860,11 @@ window.pdSaveMemo = function(uid, value) {
       /* 안내 문구가 번역된 뒤(옵저버는 비동기) (i) 버튼 툴팁도 같은 언어로 맞춘다 */
       setTimeout(function(){ if (typeof pdSyncEntNoteTitle === 'function') pdSyncEntNoteTitle(); }, 60);
     }
-  };
+    };
+  }
+  if (document.readyState === 'loading') document.addEventListener('DOMContentLoaded', installDrawLangHook);
+  else installDrawLangHook();
+  setTimeout(installDrawLangHook, 0);
 })();
 
 function ppInitDraws() {
@@ -6253,7 +6259,7 @@ Object.assign(KO2VI,{
 /* 진행 중 회차 지급 관리 비활성(2026-07-30) — 툴팁·안내문구 */
 Object.assign(KO2VI,{
   "회차 종료 후 지급 관리 가능":"Có thể quản lý gửi quà sau khi đợt kết thúc",
-  "지급 상태·메모는 아직 지급이 성립하지 않는 구간이라 비활성 상태입니다 — 회차 종료 후 지급 관리 가능":"Trạng thái gửi quà·ghi chú đang bị vô hiệu vì chưa tới lúc phát sinh việc gửi quà — có thể quản lý gửi quà sau khi đợt kết thúc"
+  "지급 상태·메모는 아직 지급이 성립하지 않는 구간이라 표시하지 않습니다 — 회차 종료 후 이 리스트에 함께 나타납니다":"Trạng thái gửi quà·ghi chú không được hiển thị vì chưa tới lúc phát sinh việc gửi quà — sẽ xuất hiện trong danh sách này sau khi đợt kết thúc"
 });
 
   var _orig=new Map(), _tracked=new Set(), _applying=false;
